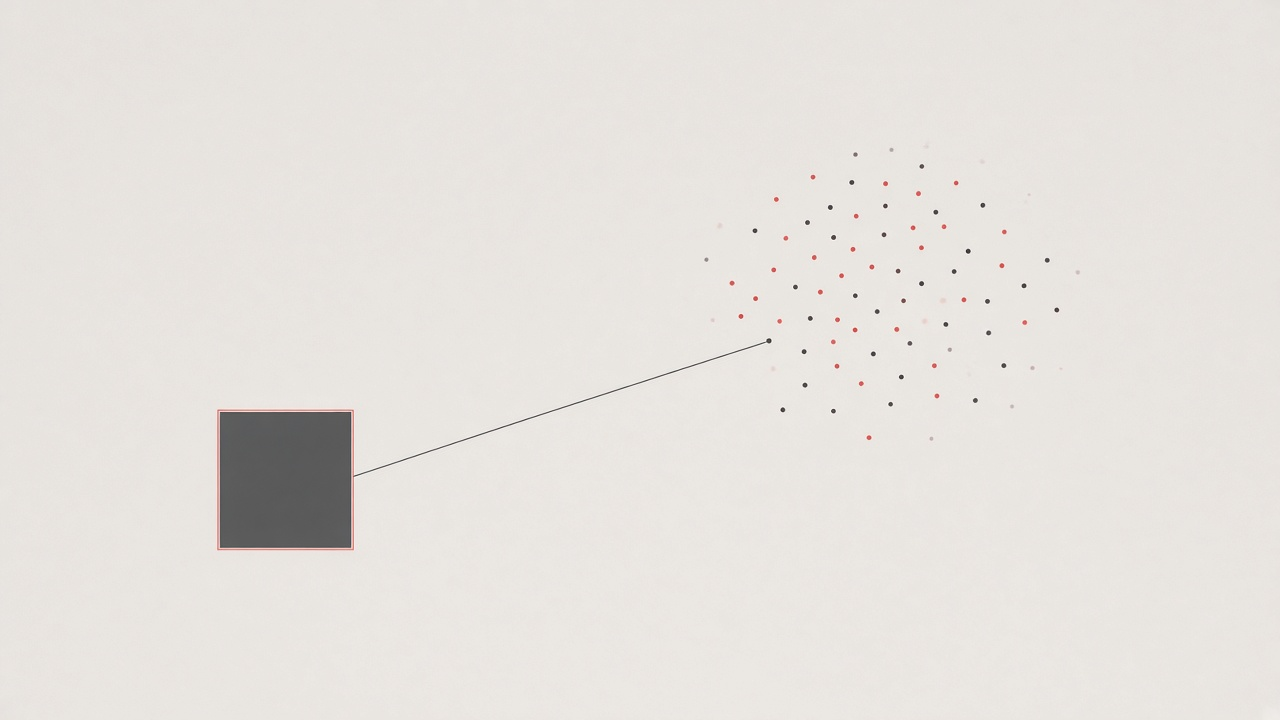
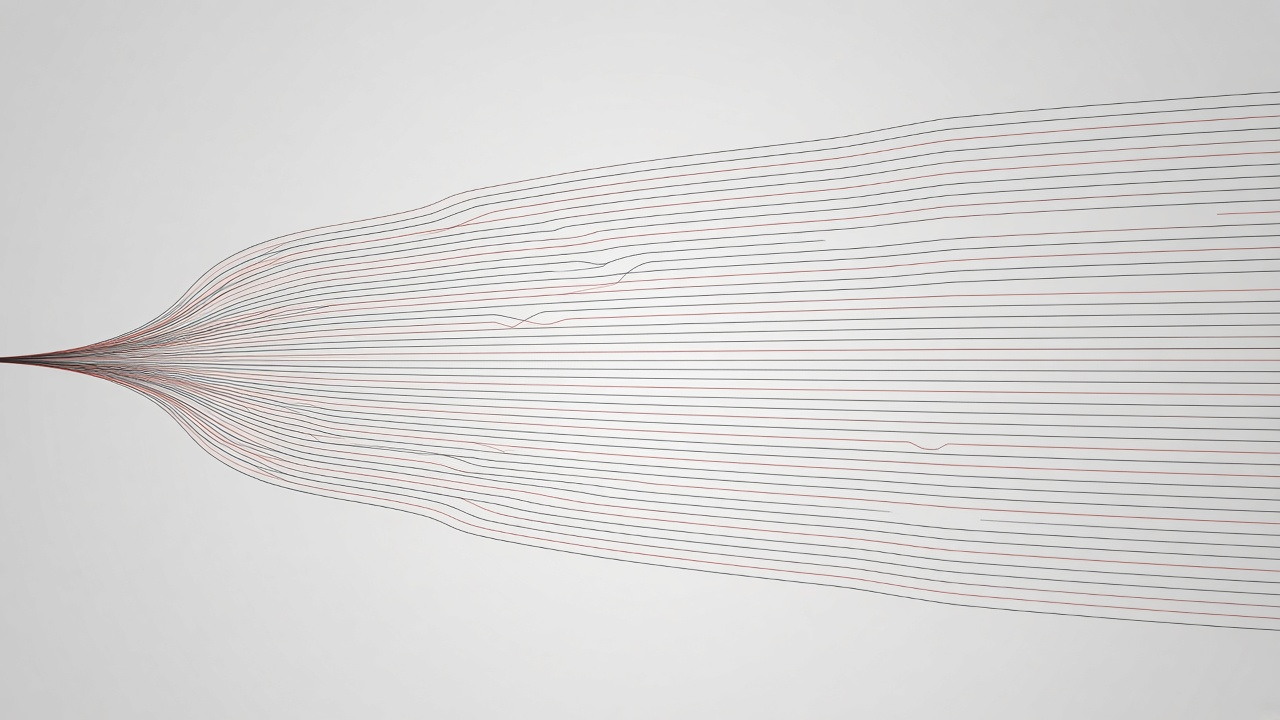
Redraw SI Assessment as circuit traces, not squares and dots.

Changed region(s): [[0.0, 0.0, 1.0, 1.0]]

diff --git a/index.html b/index.html
@@ -67,7 +67,7 @@
   <div class="steps-progress" aria-hidden="true"><span></span></div>
   <div class="workflow-panels">
    <article class="workflow-panel" id="panel-1" role="tabpanel" aria-labelledby="step-1" tabindex="0"><img class="step-illustration" src="./assets/sono-step-plane.jpg" width="1600" height="900" alt="探頭鏡頭射出一道光，對應找到標準切面"><div class="step-copy"><p class="panel-index">01 / ACQUISITION</p><h3 data-en="Find the plane.">找到標準切面</h3><p data-en="Shoulder ultrasound plane guidance.">從肩部取像導引開始。</p><details class="technical-note"><summary data-en="Development details">開發說明</summary><p data-en="Plane recognition and device compatibility require validation.">切面辨識效能與不同設備的相容性，仍需驗證。</p></details></div></article>
-   <article class="workflow-panel" id="panel-2" role="tabpanel" aria-labelledby="step-2" tabindex="0" hidden><img class="step-illustration" src="./assets/sono-step-intelligence.jpg" width="1600" height="900" alt="左下方塊是邊緣算力，右上點群是雲端算力，一線相連"><div class="step-copy"><p class="panel-index">02 / SI ASSESSMENT</p><h3 data-en="Assess. Review.">評估，也能修正</h3><p data-en="Reviewable assessment support.">讓影像資訊可檢查、可修正。</p><details class="technical-note"><summary data-en="Development details">開發說明</summary><p data-en="Assessment agreement and error require prospective evaluation.">評估一致性與誤差，需依正式研究設計評估。</p></details></div></article>
+   <article class="workflow-panel" id="panel-2" role="tabpanel" aria-labelledby="step-2" tabindex="0" hidden><img class="step-illustration" src="./assets/sono-step-intelligence.jpg" width="1600" height="900" alt="左側收成一束的是邊緣算力，右側展開的線路是雲端算力"><div class="step-copy"><p class="panel-index">02 / SI ASSESSMENT</p><h3 data-en="Assess. Review.">評估，也能修正</h3><p data-en="Reviewable assessment support.">讓影像資訊可檢查、可修正。</p><details class="technical-note"><summary data-en="Development details">開發說明</summary><p data-en="Assessment agreement and error require prospective evaluation.">評估一致性與誤差，需依正式研究設計評估。</p></details></div></article>
    <article class="workflow-panel" id="panel-3" role="tabpanel" aria-labelledby="step-3" tabindex="0" hidden><img class="step-illustration" src="./assets/sono-step-report.jpg" width="1600" height="900" alt="一張只有橫線的紙，對應報告草稿"><div class="step-copy"><p class="panel-index">03 / DOCUMENTATION</p><h3 data-en="Build the draft.">銜接報告草稿</h3><p data-en="Bring findings into structured documentation.">將觀察與評估整理成紀錄。</p><details class="technical-note"><summary data-en="Development details">開發說明</summary><p data-en="Completeness and time savings require clinical workflow validation.">報告完整度與時間效益須經驗證；草稿不等同診斷。</p></details></div></article>
    <article class="workflow-panel" id="panel-4" role="tabpanel" aria-labelledby="step-4" tabindex="0" hidden><img class="step-illustration" src="./assets/sono-step-sign.jpg" width="1600" height="900" alt="筆懸在空白卡片上，對應醫師簽章"><div class="step-copy"><p class="panel-index">04 / CLINICAL REVIEW</p><h3 data-en="The physician decides.">醫師保留決定權</h3><p data-en="Review, correct and sign off.">審閱、修正，最後簽章。</p><details class="technical-note"><summary data-en="Development details">開發說明</summary><p data-en="Local deployment and HIS integration require site-specific assessment.">院內部署與 HIS 串接須依資安、設備及場域需求評估。</p></details></div></article>
   </div>
